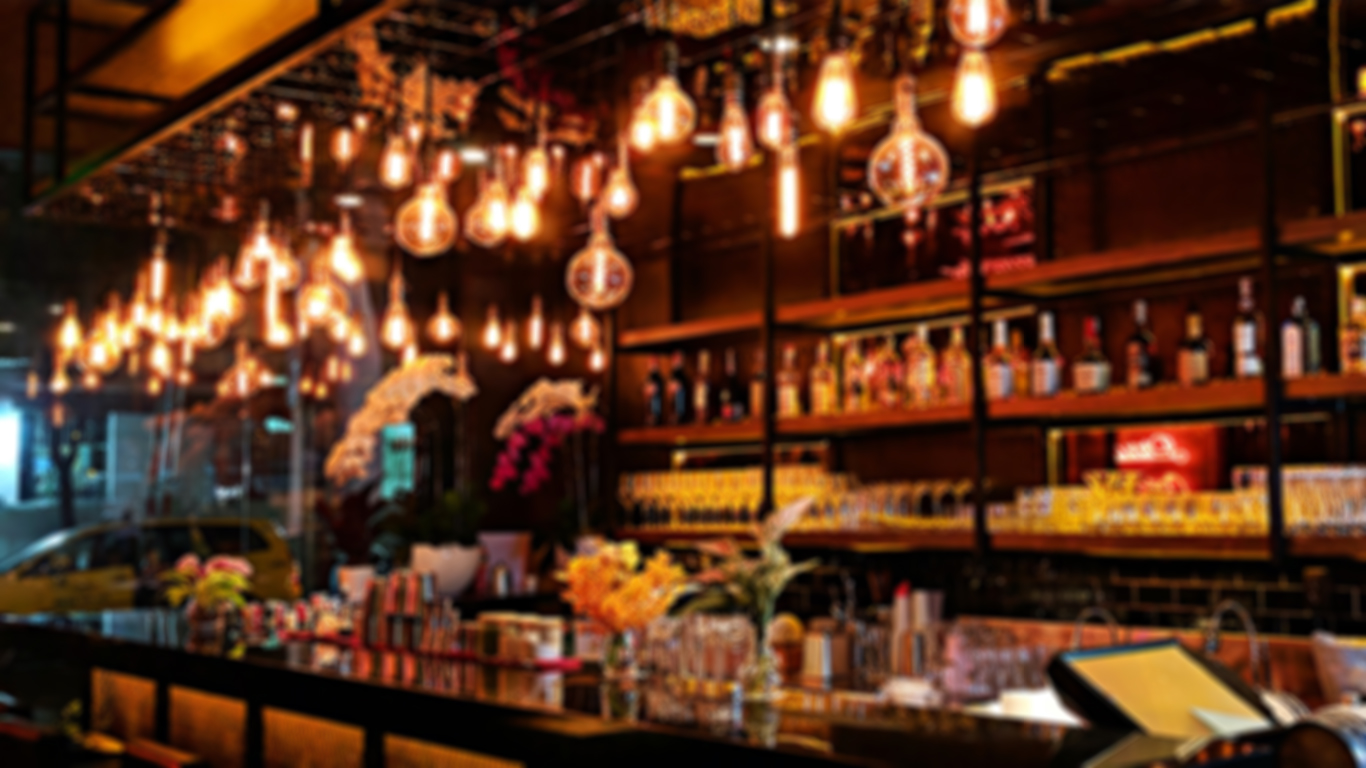
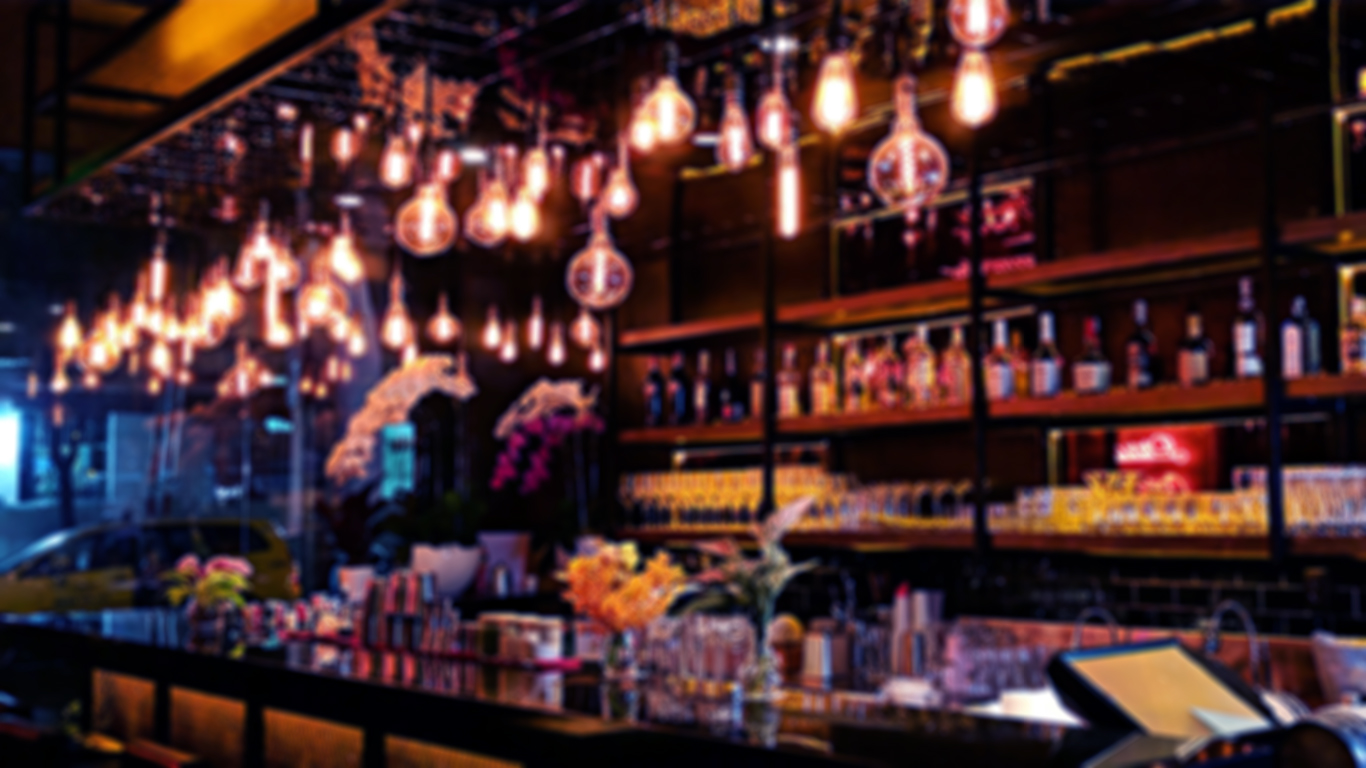
Updated Javascript document with code for google maps api. Added the font type of Black Ops to the CSS file.

diff --git a/test.html b/test.html
@@ -11,50 +11,15 @@
 
     <title>Rocktails - Live music & cocktails bar - Ibiza</title>
 </head>
-<header>
-    <marquee width="100%" direction="right" scrollamount="5" height="20px">
-        You can find us at - Rocktails Bar, 42 Jay Avenue, San Hose, Ibiza, 94088 --------------------- (BOOK NOW on 07870696845) ====== ROCKTAILS BAR IBIZA ======= LIVE MUSIC EVERY NIGHT
-    </marquee>
-</header>
-<nav class="navbar navbar-expand-lg navbar-light bg-light sticky-top">
-
-    <!--Dropdown Icon that will appear on smaller screens-->
-    <button class="navbar-toggler" data-bs-toggle="collapse" data-bs-target="#navbarSupportedContent" aria-controls="navbarSupportedContent" aria-label="Toggle navigation">
-        <span class="navbar-toggler-icon"></span>
-    </button>
-
-    <!--Nav items-->
-    <div class="collapse navbar-collapse" id="navbarSupportedContent">
-        <ul class="navbar-nav ms-auto">
-            <li class="nav-item">
-                <a href="index.html" class="nav-link">Home</a>
-            </li>
-            <li class="nav-item">
-                <a href="media.html" class="nav-link">Media</a>
-            </li>
-            <li class="nav-item">
-                <a href="about.html" class="nav-link">About</a>
-            </li>
-            <li class="nav-item">
-                <a href="contact.html" class="nav-link">Contact</a>
-            </li>
-        </ul>
-    </div>
-</nav>
-
-<div class="hero">hero image goes here</div>
-<div style="height:1000px;background-color:red;font-size:36px">
-    Scroll Up and Down this page to see the parallax scrolling effect. This div is just here to enable scrolling. Tip: Try to remove the background-attachment property to remove the scrolling effect.
-</div>
-
-
-
-<div class="hero">hero image goes here</div>
 
 <body>
+    <div id="map"></div>
+
+    <script async src="https://maps.googleapis.com/maps/api/js?key=AIzaSyDVS-7uyoUOfM_n2c809ATLNevbwqYoQBk&callback=initMap">
+    </script>
+    <script src="/assets/main.js"></script>
 
     <script src="https://cdn.jsdelivr.net/npm/bootstrap@5.0.2/dist/js/bootstrap.bundle.min.js" integrity="sha384-MrcW6ZMFYlzcLA8Nl+NtUVF0sA7MsXsP1UyJoMp4YLEuNSfAP+JcXn/tWtIaxVXM" crossorigin="anonymous"></script>
-
 
 
 

diff --git a/assets/styles.css b/assets/styles.css
@@ -5,11 +5,11 @@ header {
     padding: 3px;
     text-align: center;
     font-size: 15px;
-    color: white;
+    color: black;
 }
 
 marquee {
-    background-color: orange;
+    background-color: #ffb347;
 }
 
 nav {
@@ -35,7 +35,7 @@ nav {
 
 .hero {
     text-align: center;
-    background-image: url("./photos/hero2blur.jpg");
+    background-image: url("./photos/hero3.jpg");
     background-attachment: fixed;
     background-position: center;
     background-repeat: no-repeat;
@@ -47,12 +47,24 @@ nav {
     top: -300px;
     float: left;
     font-size: 200px;
-    color: white;
     font-family: Black Ops One;
+    color: antiquewhite;
 }
 
 h1 {
     top: -200px;
     float: left;
-    color: orange;
+    color: #ffb347;
+}
+
+#map {
+    position: relative;
+    height: 700px;
+    width: 100%;
+}
+
+.customNavBar {
+    position: absolute;
+    top: 10px;
+    left: 10px;
 }

diff --git a/test2.html b/test2.html
@@ -1,0 +1,19 @@
+<!DOCTYPE html>
+<html>
+
+<head>
+    <title>Simple Map</title>
+    <script src="https://polyfill.io/v3/polyfill.min.js?features=default"></script>
+    <link rel="stylesheet" href="assets/styles.css">
+    <script src="./index.js"></script>
+</head>
+
+<body>
+    <div id="map"></div>
+
+    <!-- Async script executes immediately and must be after any DOM elements used in callback. -->
+    <script src="https://maps.googleapis.com/maps/api/js?key=AIzaSyDVS-7uyoUOfM_n2c809ATLNevbwqYoQBk&callback=initMap&libraries=&v=weekly" async></script>
+    <script src="/assets/main.js"></script>
+</body>
+
+</html>

diff --git a/assets/main.js b/assets/main.js
@@ -1,0 +1,8 @@
+let map;
+
+function initMap() {
+    map = new google.maps.Map(document.getElementById("map"), {
+        center: { lat: -34.397, lng: 150.644 },
+        zoom: 10,
+    });
+}
